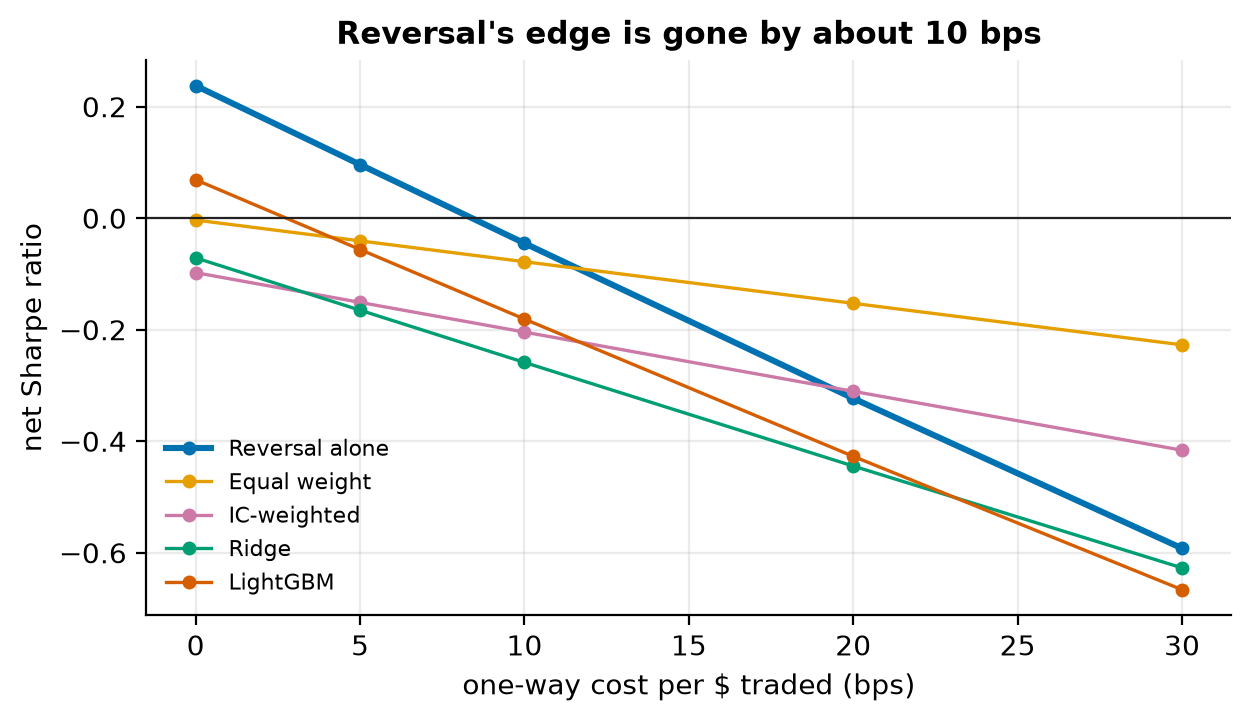
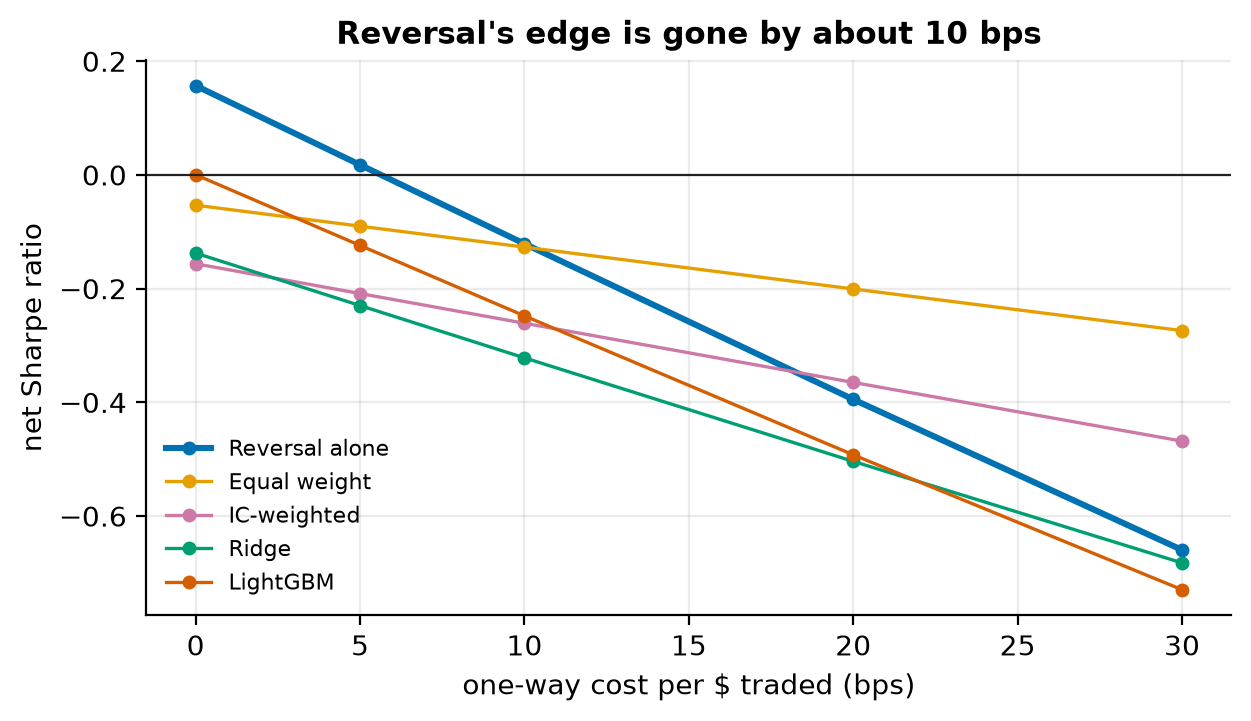
Next-day execution as main backtest; add survivorship figure

diff --git a/scripts/backtest_strategies.py b/scripts/backtest_strategies.py
@@ -4,10 +4,14 @@ Run from the repo root (after combine_signals.py):
     DATA=data/processed_crsp PRED=results/step6_crsp RESULTS=results/step7_crsp \
         PYTHONPATH=src python scripts/backtest_strategies.py
 
-Pre-registered main setting (fixed before looking at results):
+Main setting:
   - monthly rebalance, long top fifth / short bottom fifth, $1 long and $1 short
   - cost = half the quoted bid-ask spread (CRSP, trailing 21 days), borrow fee 25 bps a year
-Everything else (flat costs, lag, fund size, weights, subperiods) is a robustness check.
+  - execution one trading day after the signal (LAG=1): the signal uses closing prices,
+    which are only final after the closing auction, so trading at that same close is not
+    achievable. Same-close execution (LAG=0) is reported as an optimistic benchmark.
+Everything else (flat costs, timing, fund size, weights, subperiods) is a robustness check.
+Every section of the output uses LAG; set LAG=0 to reproduce the old same-close numbers.
 """
 import os
 from pathlib import Path
@@ -20,9 +24,11 @@ PROCESSED = Path(os.environ.get("DATA", "data/processed_crsp"))
 PRED = Path(os.environ.get("PRED", "results/step6_crsp"))
 OUT = Path(os.environ.get("RESULTS", "results/step7_crsp"))
 STRATEGIES = ["reversal_only", "equal", "ic_weighted", "ridge", "lgbm"]
+LAG = int(os.environ.get("LAG", "1"))          # trading days between signal close and trade
 
 
 def run(pred, rets, cost, weights_fn=bt.quintile_weights, **kw):
+    kw.setdefault("lag", LAG)
     w = {d: weights_fn(pred.loc[d]) for d in pred.index}
     return bt.simulate(w, rets, cost_rate=cost, **kw)
 
@@ -65,14 +71,19 @@ def main():
     sens = pd.DataFrame(sens).T
     sens.to_csv(OUT / "cost_sensitivity.csv")
 
-    # ------------------------------------------------------------ 3. one-day implementation lag
-    lag = {}
-    for s, p in preds.items():
-        lag[s] = {"gross Sharpe, lag 0": main_rows[s]["sharpe_gross"],
-                  "gross Sharpe, lag 1": bt.performance(run(p, rets, 0.0, lag=1))["sharpe_gross"],
-                  "net Sharpe, lag 1": bt.performance(run(p, rets, hs, lag=1))["sharpe_net"]}
-    lag = pd.DataFrame(lag).T
-    lag.to_csv(OUT / "lag_test.csv")
+    # ------------------------------------------------------------ 3. execution timing
+    timing = {}
+    for s_, p in preds.items():
+        row = {}
+        for L in [0, 1, 2]:
+            g = main_rows[s_] if L == LAG else bt.performance(run(p, rets, hs, lag=L))
+            tag = "same close" if L == 0 else f"lag {L}"
+            row[f"gross ret, {tag}"] = g["gross_return"] * 100
+            row[f"gross SR, {tag}"] = g["sharpe_gross"]
+            row[f"net SR, {tag}"] = g["sharpe_net"]
+        timing[s_] = row
+    timing = pd.DataFrame(timing).T
+    timing.to_csv(OUT / "timing.csv")
 
     # ------------------------------------------------------------ 4. fund size (market impact)
     cap_rows = {}
@@ -115,7 +126,7 @@ def main():
 
     # ------------------------------------------------------------ print
     pd.set_option("display.width", 220)
-    print("\n=== 1. Main result: quintile long-short, half-spread costs, 25 bps borrow ===")
+    print(f"\n=== 1. Main result: quintile long-short, half-spread costs, 25 bps borrow, trade {LAG} day(s) after signal ===")
     show = pct(main_tab, ["gross_return", "net_return", "volatility", "max_drawdown", "hit_rate_monthly", "cost_per_year"])
     show["traded_per_year"] = show["traded_per_year"].round(1)
     show["breakeven_bps"] = show["breakeven_bps"].round(1)
@@ -124,8 +135,8 @@ def main():
 
     print("\n=== 2. Net Sharpe at flat one-way costs ===")
     print(sens.round(2).to_string())
-    print("\n=== 3. One-day implementation lag (bid-ask bounce check) ===")
-    print(lag.round(2).to_string())
+    print("\n=== 3. Execution timing: same close (optimistic) vs 1 and 2 days later (gross ret in %) ===")
+    print(timing.round(2).to_string())
     print("\n=== 4. Net Sharpe by fund size (half-spread + square-root impact) ===")
     print(cap.round(2).to_string())
     print("\n=== 5. Net Sharpe: quintile vs rank weights ===")
